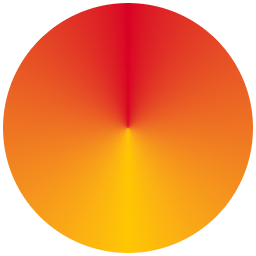
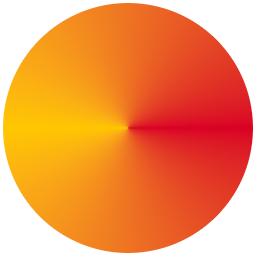
update sweep images per of 0 to x-axis

diff --git a/images/conic_gradients.html b/images/conic_gradients.html
@@ -2,11 +2,11 @@
 <body>
 <div style="width: 200px; height: 200px; background: conic-gradient(#DA0025, #FFC600, #25FF25, #25FFFF, #2525FF, #DA00DA, #DA0025); border-radius: 50%;"></div>
 <br>
-<div style="width: 200px; height: 200px; background: conic-gradient(#DA0025, #FFC600, #DA0025); border-radius: 50%;"></div>
+<div style="width: 200px; height: 200px; background: conic-gradient(from 90deg, #DA0025, #FFC600, #DA0025); border-radius: 50%;"></div>
 <br>
 <div style="width: 200px; height: 200px; background: conic-gradient(from -60deg, #DA0025, #FFC600, #DA0025); border-radius: 50%;"></div>
 <br>
-<div style="width: 200px; height: 200px; background: conic-gradient(#FFC600, #DA0025); border-radius: 50%;"></div>
+<div style="width: 200px; height: 200px; background: conic-gradient(from 90deg, #FFC600, #DA0025); border-radius: 50%;"></div>
 <br>
 <div style="width: 200px; height: 200px; background: conic-gradient(from -60deg, #FFC600, #DA0025 33%, white 40deg); border-radius: 50%;"></div>
 

diff --git a/OFF_AMD2_WD.md b/OFF_AMD2_WD.md
@@ -594,20 +594,20 @@ revolution around the center, never more.
 If the starting and ending angle are the same, a sharp color transition can
 occur if the colors at stop offsets 0 and 1 are different. This is illustrated
 in figure 5.31, showing a gradient from red to yellow that starts and stops at
-90°.
+0°.
 
-![A sweep gradient, from red to yellow, with a sharp transition at the start/end angle 90°.](images/colr_conic_gradient_sharp_transition.png)
+![A sweep gradient, from red to yellow, with a sharp transition at the start/end angle 0°.](images/colr_conic_gradient_sharp_transition.png)
 
-**Figure 5.31 A sweep gradient, from red to yellow, with a sharp transition at the start/end angle 90°.**
+**Figure 5.31 A sweep gradient, from red to yellow, with a sharp transition at the start/end angle 0°.**
 
 To avoid such a sharp transition, the stop offsets 0 and 1 on the color line
 need to have the same color value. Figure 5.32 illustrates a sweep gradient that
 transitions from red at stop offset 0, to yellow at stop offset 0.5, and back to
 red at stop offset 1.0.
 
-![A sweep gradient, from red to yellow to red, with a smooth transition at the start/end angle 90°.](images/colr_conic_gradient_rotation-0.png)
+![A sweep gradient, from red to yellow to red, with a smooth transition at the start/end angle 0°.](images/colr_conic_gradient_rotation-0.png)
 
-**Figure 5.32 A sweep gradient, from red to yellow to red, with a smooth transition at the start/end angle 90°.**
+**Figure 5.32 A sweep gradient, from red to yellow to red, with a smooth transition at the start/end angle 0°.**
 
 NOTE: When a sweep gradient is combined with a transformation (see 5.7.11.1.5),
 the appearance will be the same as if a circular arc of some non-zero radius
